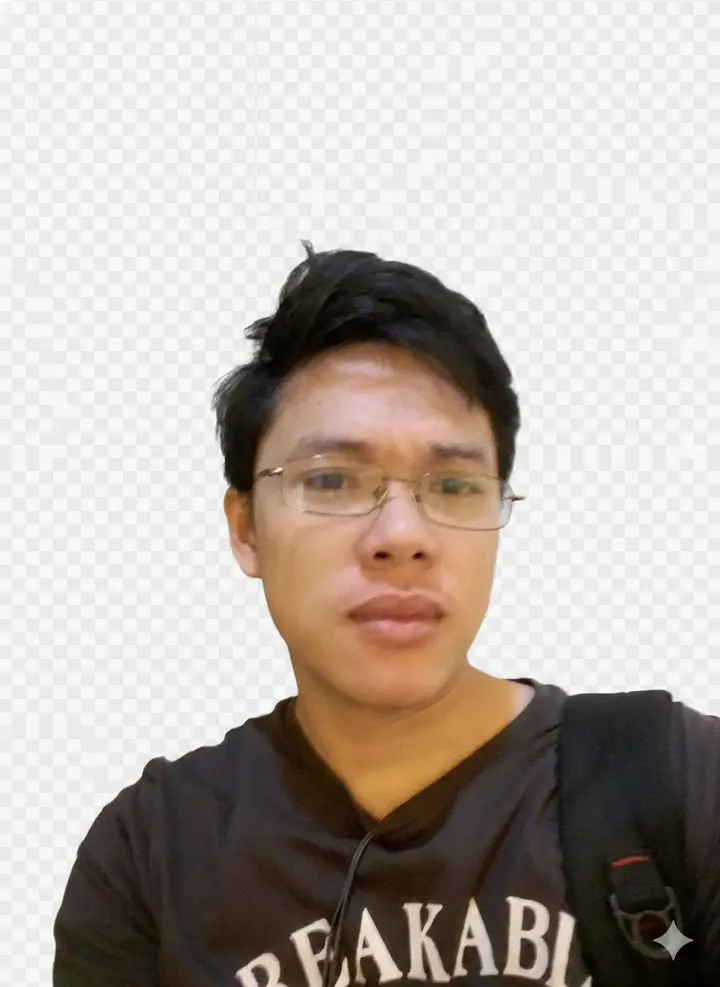
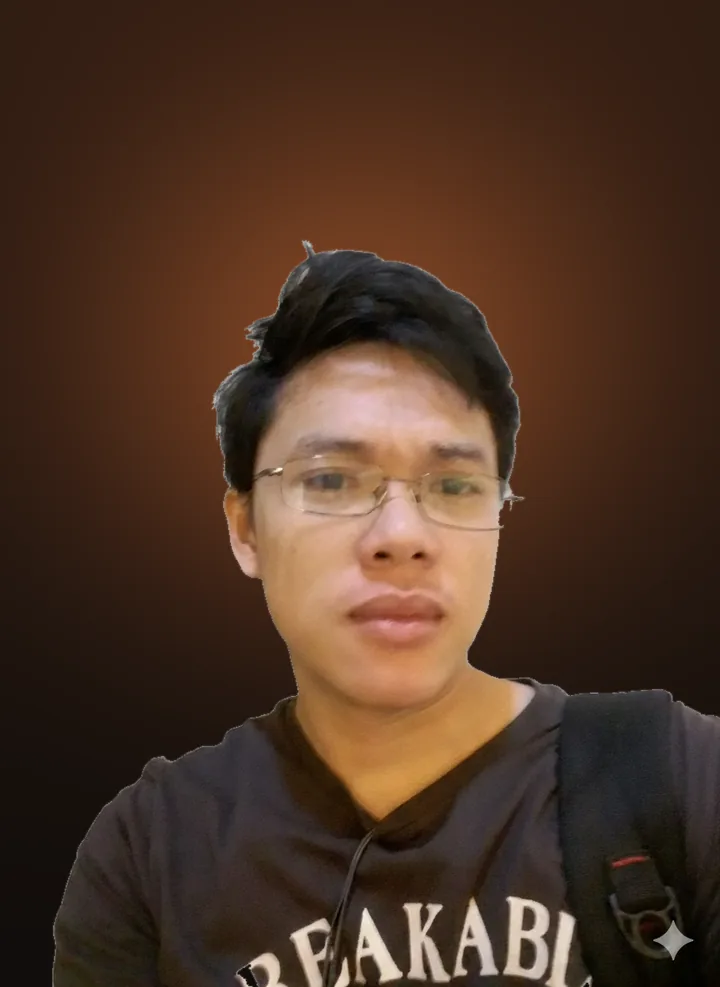
Clear the portrait background and pull the hero ring off the photo.
Replace the checkerboard baked into the portrait with a warm gradient, and scale the desktop wireframe so it sits beside the card.

diff --git a/lib/hero-scene.ts b/lib/hero-scene.ts
@@ -12,20 +12,22 @@ export function mountHeroScene(canvas: HTMLCanvasElement): () => void {
 
   const scene = new THREE.Scene();
   const camera = new THREE.PerspectiveCamera(40, 1, 0.1, 80);
-  camera.position.set(2.4, 0.2, 13);
+  camera.position.set(0.4, 0.15, 15.5);
 
   const group = new THREE.Group();
-  group.position.set(3.1, 0.3, 0);
+  // Sit in the right margin so the ring frames the portrait instead of crossing it.
+  group.position.set(7.35, -0.45, 0);
+  group.scale.setScalar(0.5);
   scene.add(group);
 
-  const count = 520;
+  const count = 420;
   const positions = new Float32Array(count * 3);
   const colors = new Float32Array(count * 3);
   const copper = new THREE.Color("#e07a3d");
   const cream = new THREE.Color("#f4efe8");
 
   for (let index = 0; index < count; index += 1) {
-    const radius = 3.2 + Math.random() * 5.2;
+    const radius = 1.7 + Math.random() * 2.4;
     const theta = Math.random() * Math.PI * 2;
     const phi = Math.acos(2 * Math.random() - 1);
     positions[index * 3] = radius * Math.sin(phi) * Math.cos(theta);
@@ -51,7 +53,7 @@ export function mountHeroScene(canvas: HTMLCanvasElement): () => void {
   });
   group.add(new THREE.Points(geometry, material));
 
-  const icoGeometry = new THREE.IcosahedronGeometry(2.7, 0);
+  const icoGeometry = new THREE.IcosahedronGeometry(2.15, 0);
   const icoMaterial = new THREE.MeshBasicMaterial({
     color: 0xe07a3d,
     transparent: true,
@@ -70,7 +72,7 @@ export function mountHeroScene(canvas: HTMLCanvasElement): () => void {
     transparent: true,
     opacity: 0.85,
   });
-  const torus = new THREE.Mesh(new THREE.TorusGeometry(4.1, 0.028, 16, 80), torusMaterial);
+  const torus = new THREE.Mesh(new THREE.TorusGeometry(3.15, 0.022, 12, 72), torusMaterial);
   torus.rotation.x = Math.PI / 2.6;
   group.add(torus);
 

diff --git a/components/hero.tsx b/components/hero.tsx
@@ -34,7 +34,7 @@ export function Hero() {
           </div>
         </div>
 
-        <div className="relative mx-auto w-full max-w-[22rem] lg:max-w-none">
+        <div className="relative z-10 mx-auto w-full max-w-[22rem] lg:max-w-none">
           <div className="absolute -inset-3 rounded-[2rem] border border-ember/40" aria-hidden="true" />
           <Image
             src="/images/profile.webp"
@@ -42,7 +42,7 @@ export function Hero() {
             width={720}
             height={987}
             priority
-            className="relative aspect-[3/4] w-full rounded-[1.7rem] object-cover object-top"
+            className="relative aspect-[3/4] w-full rounded-[1.7rem] bg-[#120e0c] object-cover object-top"
           />
         </div>
       </div>
